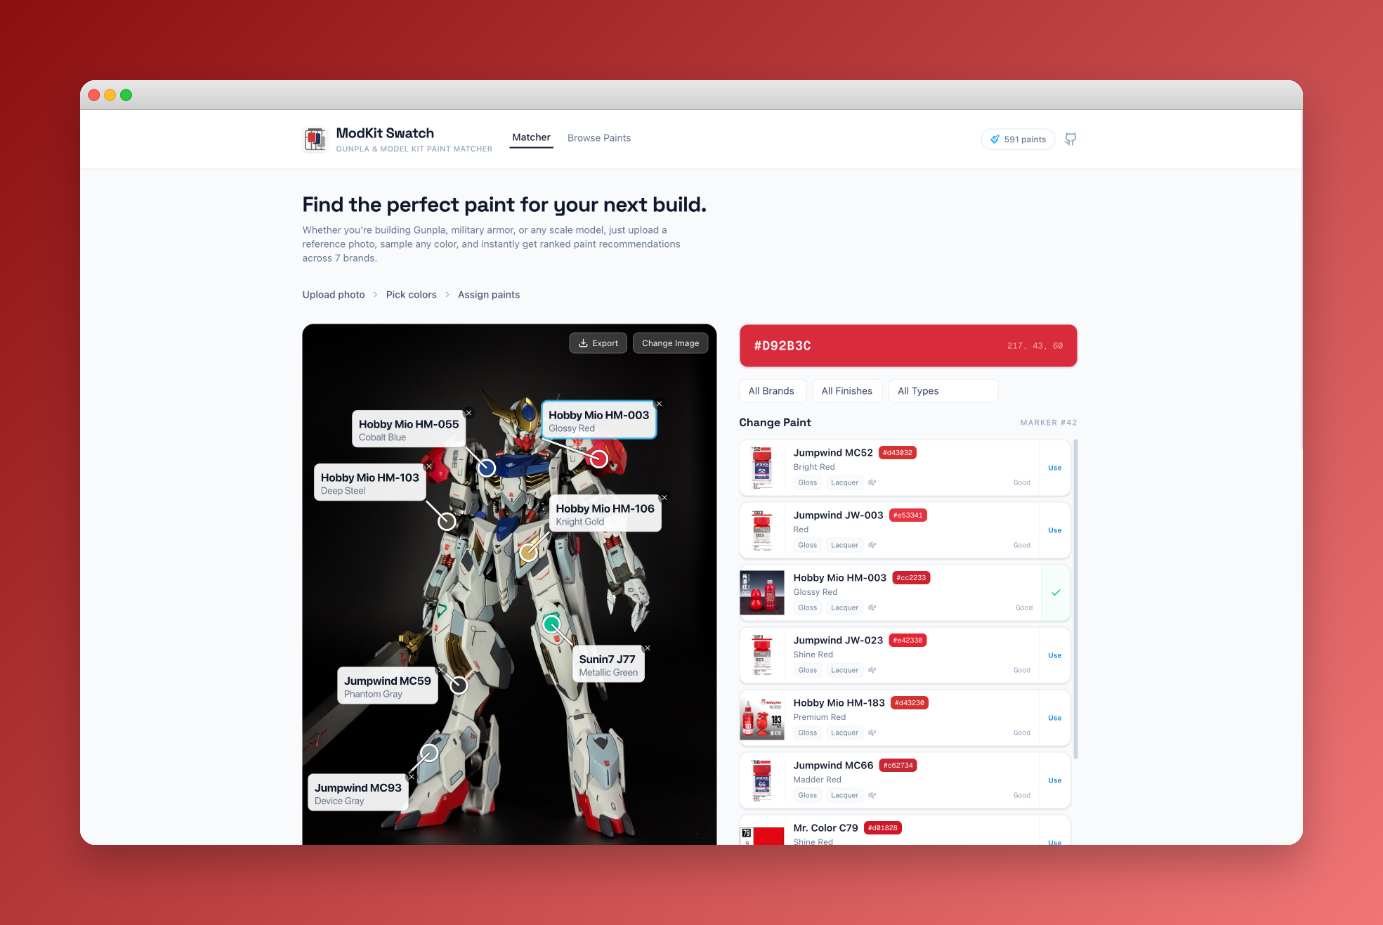
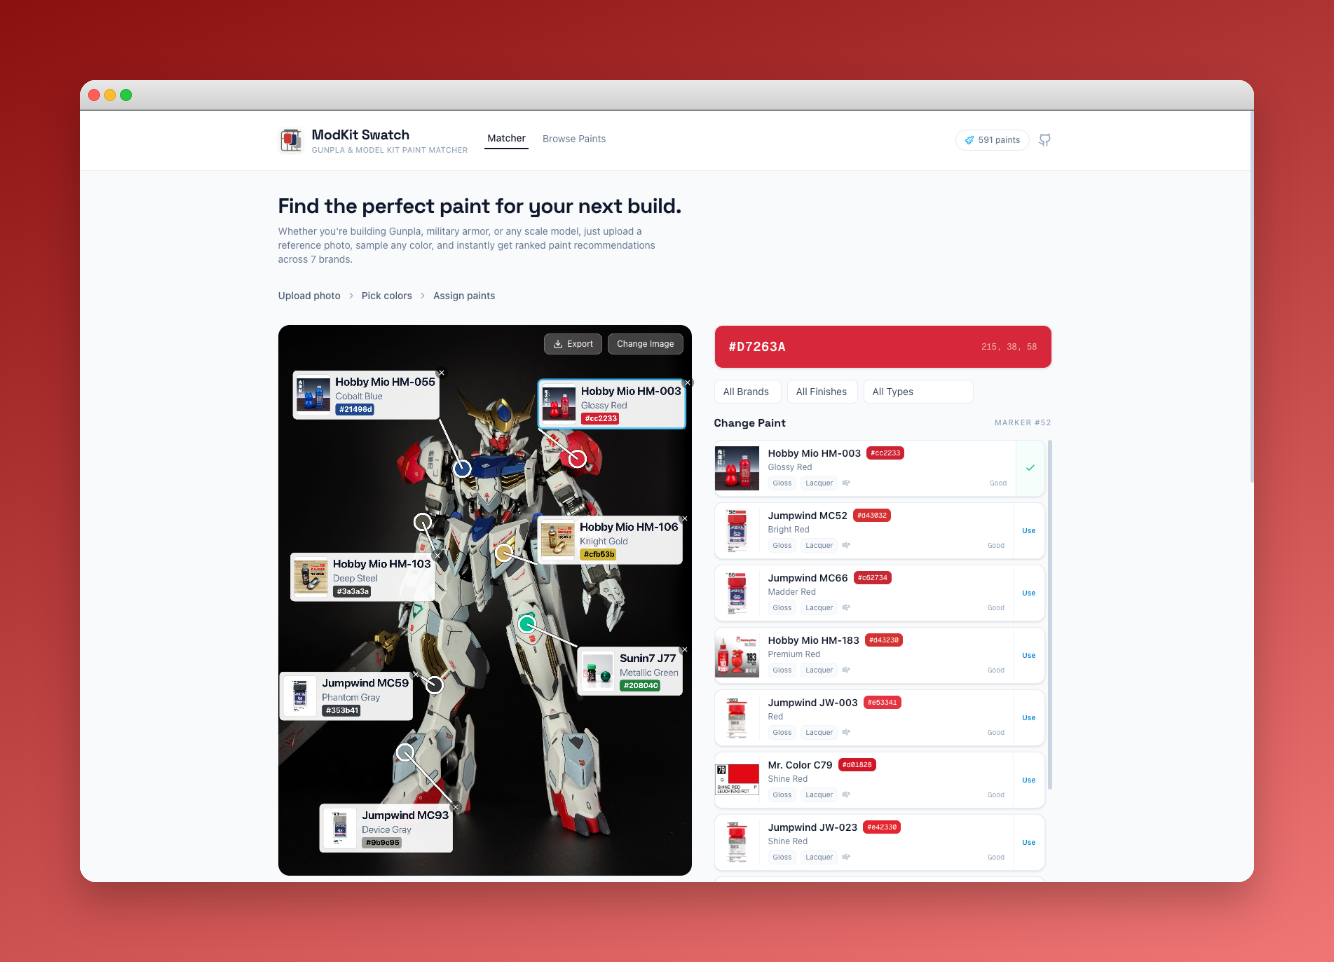
fix: add mobile label dragging, fix labels disappearing on resize, and only persist assigned markers

diff --git a/components/ImageCanvas.tsx b/components/ImageCanvas.tsx
@@ -44,6 +44,7 @@ export default function ImageCanvas({ markers, activeMarkerId, onColorPick, onSe
   const imageDataRef = useRef<HTMLImageElement | null>(null);
   const paintImgCache = useRef<Map<string, HTMLImageElement | null>>(new Map());
   const [paintImgVersion, setPaintImgVersion] = useState(0);
+  const [resizeVersion, setResizeVersion] = useState(0);
   const draggingLabelRef = useRef<{ markerId: number; offsetX: number; offsetY: number } | null>(null);
 
   const drawImage = useCallback((img: HTMLImageElement) => {
@@ -335,7 +336,7 @@ export default function ImageCanvas({ markers, activeMarkerId, onColorPick, onSe
   // Redraw markers whenever they change
   useEffect(() => {
     if (hasImage) drawAllMarkers();
-  }, [markers, activeMarkerId, hasImage, drawAllMarkers, paintImgVersion]);
+  }, [markers, activeMarkerId, hasImage, drawAllMarkers, paintImgVersion, resizeVersion]);
 
   const drawLoupeToCanvas = useCallback(
     (canvasEl: HTMLCanvasElement | null, imgX: number, imgY: number) => {
@@ -539,8 +540,28 @@ export default function ImageCanvas({ markers, activeMarkerId, onColorPick, onSe
   const touchHandlerRef = useRef<((e: TouchEvent) => void) | null>(null);
   touchHandlerRef.current = (e: TouchEvent) => {
     if (!pickMode) return;
-    e.preventDefault();
     const touch = e.touches[0];
+
+    // Check if touching a label — start drag instead of pick
+    const hit = hitTestLabel(touch.clientX, touch.clientY);
+    if (hit) {
+      e.preventDefault();
+      const canvas = canvasRef.current;
+      if (!canvas) return;
+      const rect = canvas.getBoundingClientRect();
+      const scaleX = canvas.width / rect.width;
+      const scaleY = canvas.height / rect.height;
+      const imgX = (touch.clientX - rect.left) * scaleX;
+      const imgY = (touch.clientY - rect.top) * scaleY;
+      draggingLabelRef.current = {
+        markerId: hit.markerId,
+        offsetX: imgX - hit.x,
+        offsetY: imgY - hit.y,
+      };
+      return;
+    }
+
+    e.preventDefault();
     const canvas = canvasRef.current;
     if (!canvas) return;
     const rect = canvas.getBoundingClientRect();
@@ -562,8 +583,28 @@ export default function ImageCanvas({ markers, activeMarkerId, onColorPick, onSe
     const canvas = canvasRef.current;
     if (!canvas) return;
     const handler = (e: TouchEvent) => touchHandlerRef.current?.(e);
+    const moveHandler = (e: TouchEvent) => {
+      if (!draggingLabelRef.current) return;
+      e.preventDefault();
+      const touch = e.touches[0];
+      const rect = canvas.getBoundingClientRect();
+      const scaleX = canvas.width / rect.width;
+      const scaleY = canvas.height / rect.height;
+      const imgX = (touch.clientX - rect.left) * scaleX;
+      const imgY = (touch.clientY - rect.top) * scaleY;
+      const newX = imgX - draggingLabelRef.current.offsetX;
+      const newY = imgY - draggingLabelRef.current.offsetY;
+      onUpdateMarkerLabel?.(draggingLabelRef.current.markerId, newX, newY);
+    };
+    const endHandler = () => { draggingLabelRef.current = null; };
     canvas.addEventListener("touchstart", handler, { passive: false });
-    return () => canvas.removeEventListener("touchstart", handler);
+    canvas.addEventListener("touchmove", moveHandler, { passive: false });
+    canvas.addEventListener("touchend", endHandler);
+    return () => {
+      canvas.removeEventListener("touchstart", handler);
+      canvas.removeEventListener("touchmove", moveHandler);
+      canvas.removeEventListener("touchend", endHandler);
+    };
   }, []);
 
   useEffect(() => {
@@ -578,7 +619,10 @@ export default function ImageCanvas({ markers, activeMarkerId, onColorPick, onSe
 
   useEffect(() => {
     const handleResize = () => {
-      if (imageDataRef.current) drawImage(imageDataRef.current);
+      if (imageDataRef.current) {
+        drawImage(imageDataRef.current);
+        setResizeVersion((v) => v + 1);
+      }
     };
     window.addEventListener("resize", handleResize);
     return () => window.removeEventListener("resize", handleResize);

diff --git a/app/page.tsx b/app/page.tsx
@@ -29,7 +29,9 @@ function loadMarkers(): Marker[] {
 }
 
 function saveMarkers(markers: Marker[]) {
-  localStorage.setItem(MARKERS_KEY, JSON.stringify(markers));
+  // Only persist markers that have an assigned paint
+  const assigned = markers.filter((m) => m.assignedPaint !== null);
+  localStorage.setItem(MARKERS_KEY, JSON.stringify(assigned));
 }
 
 export default function Home() {
